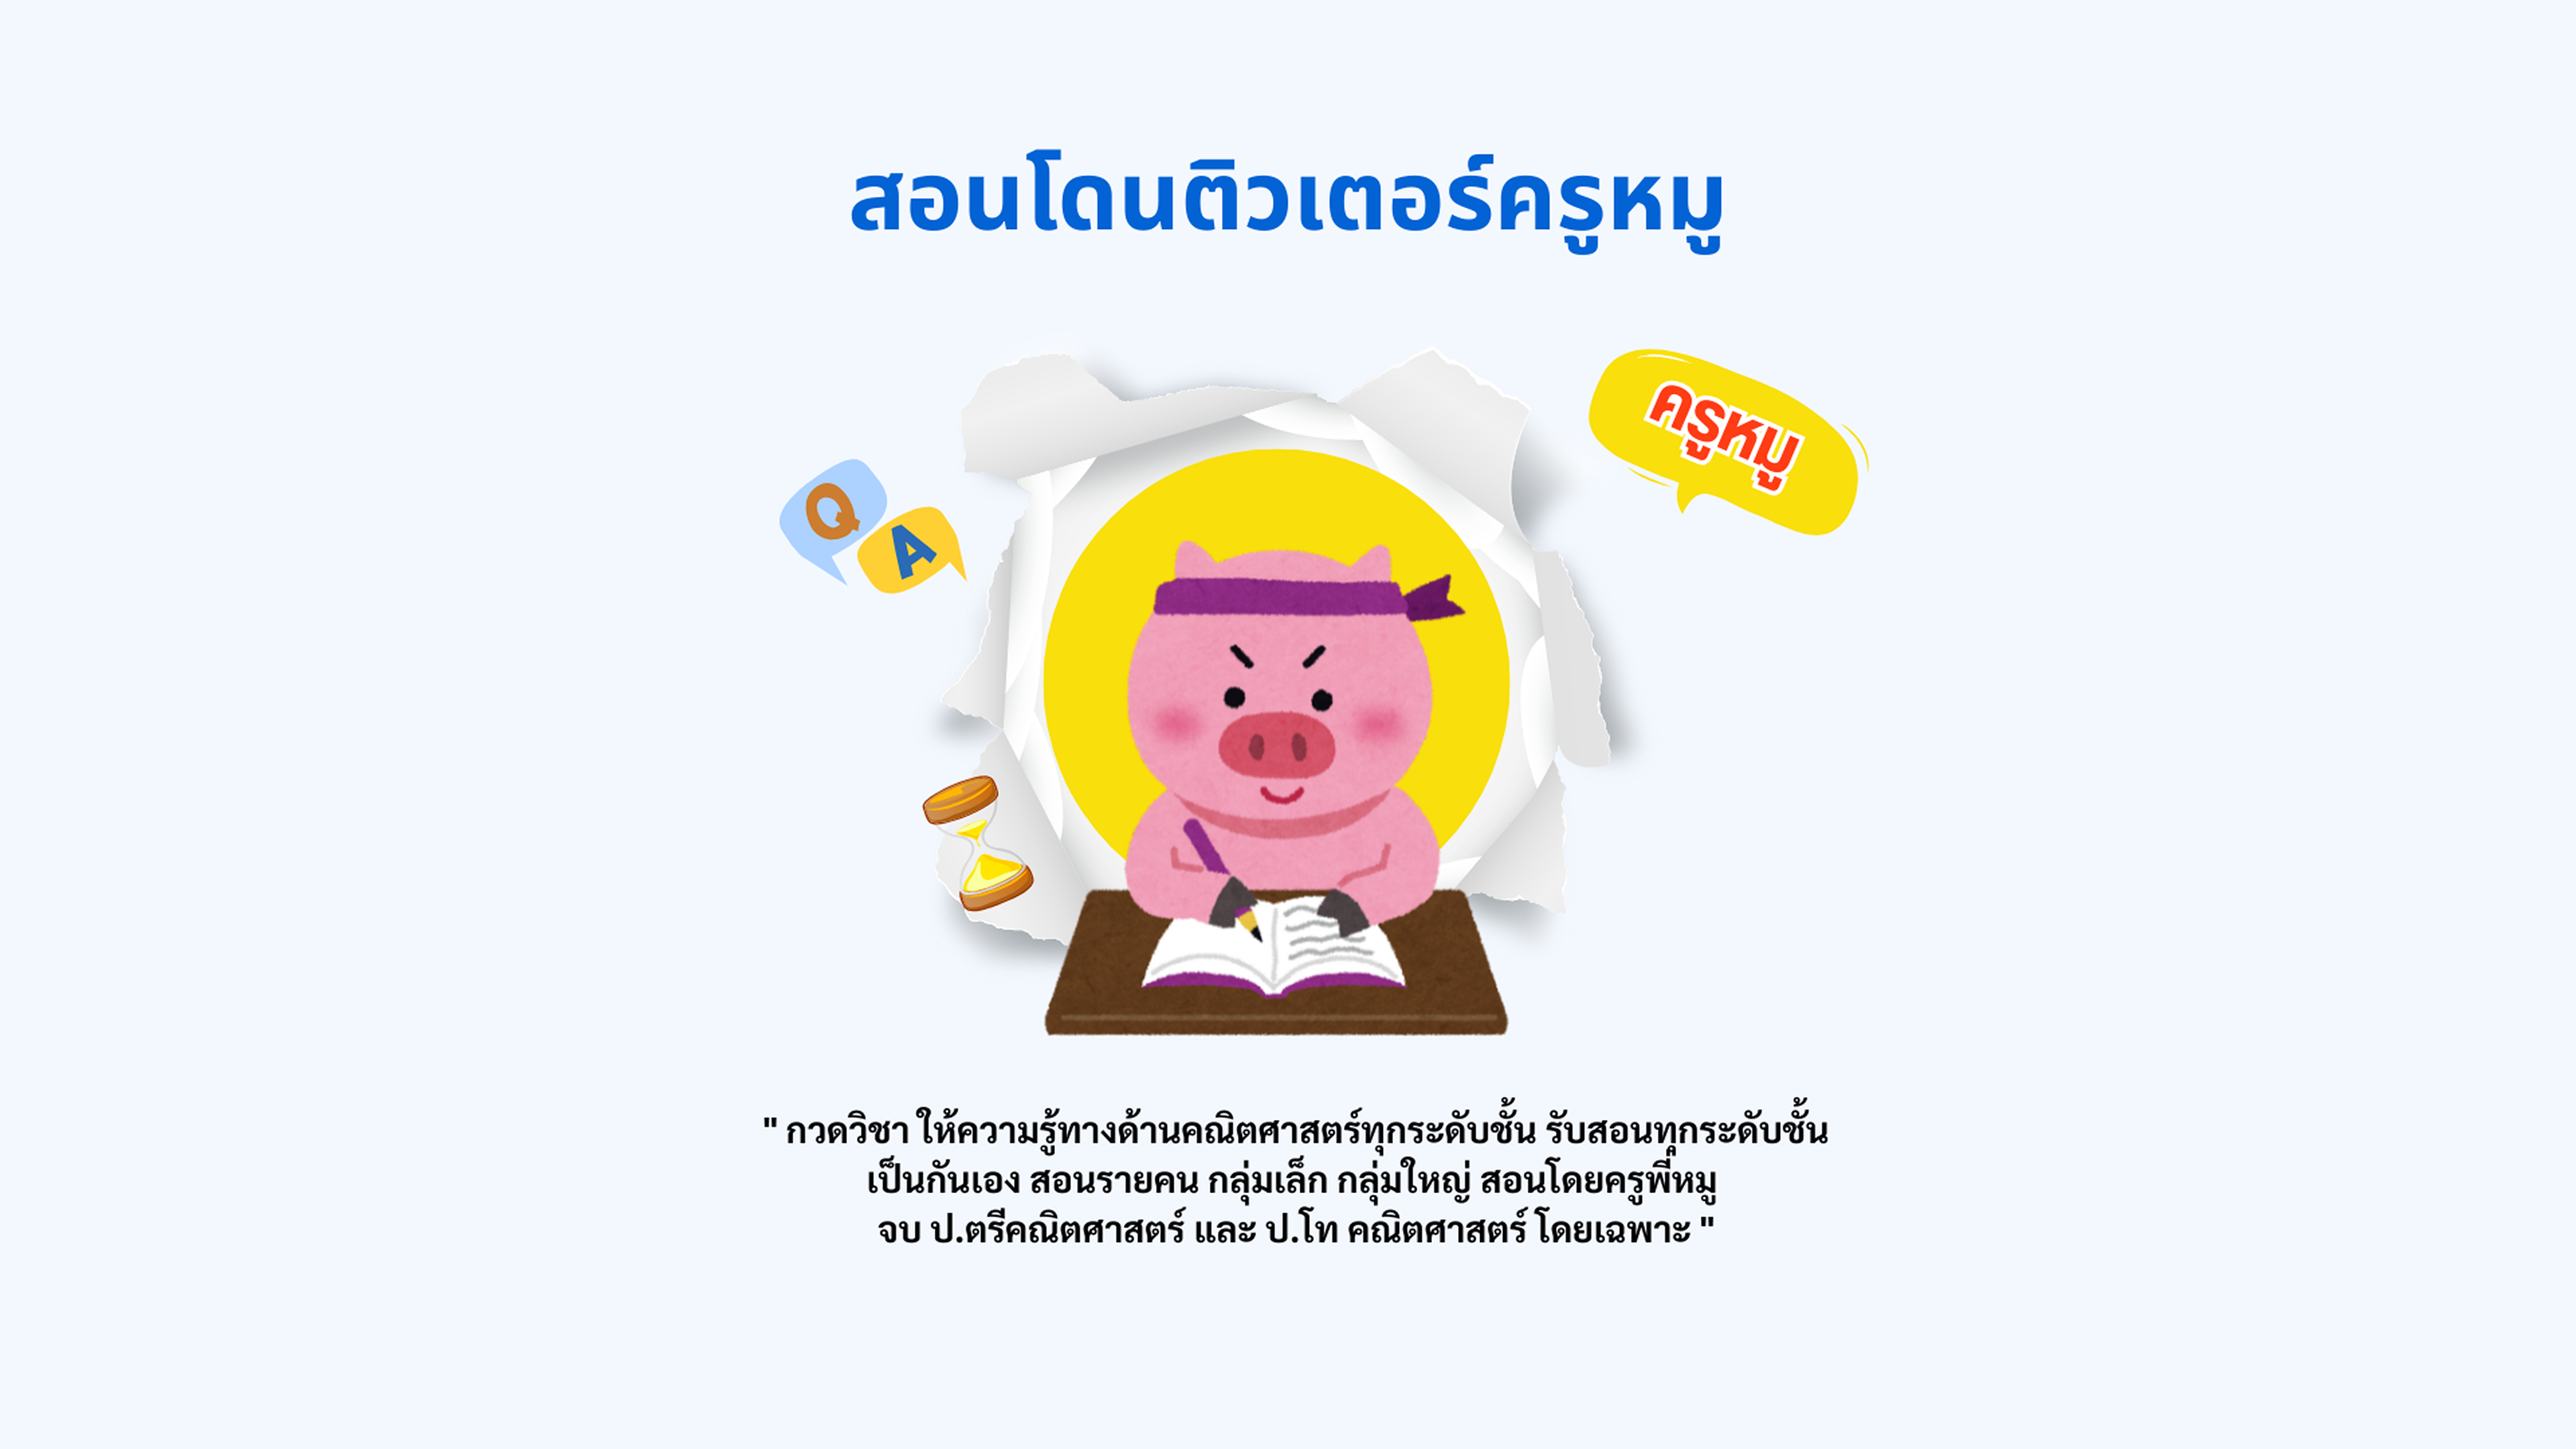
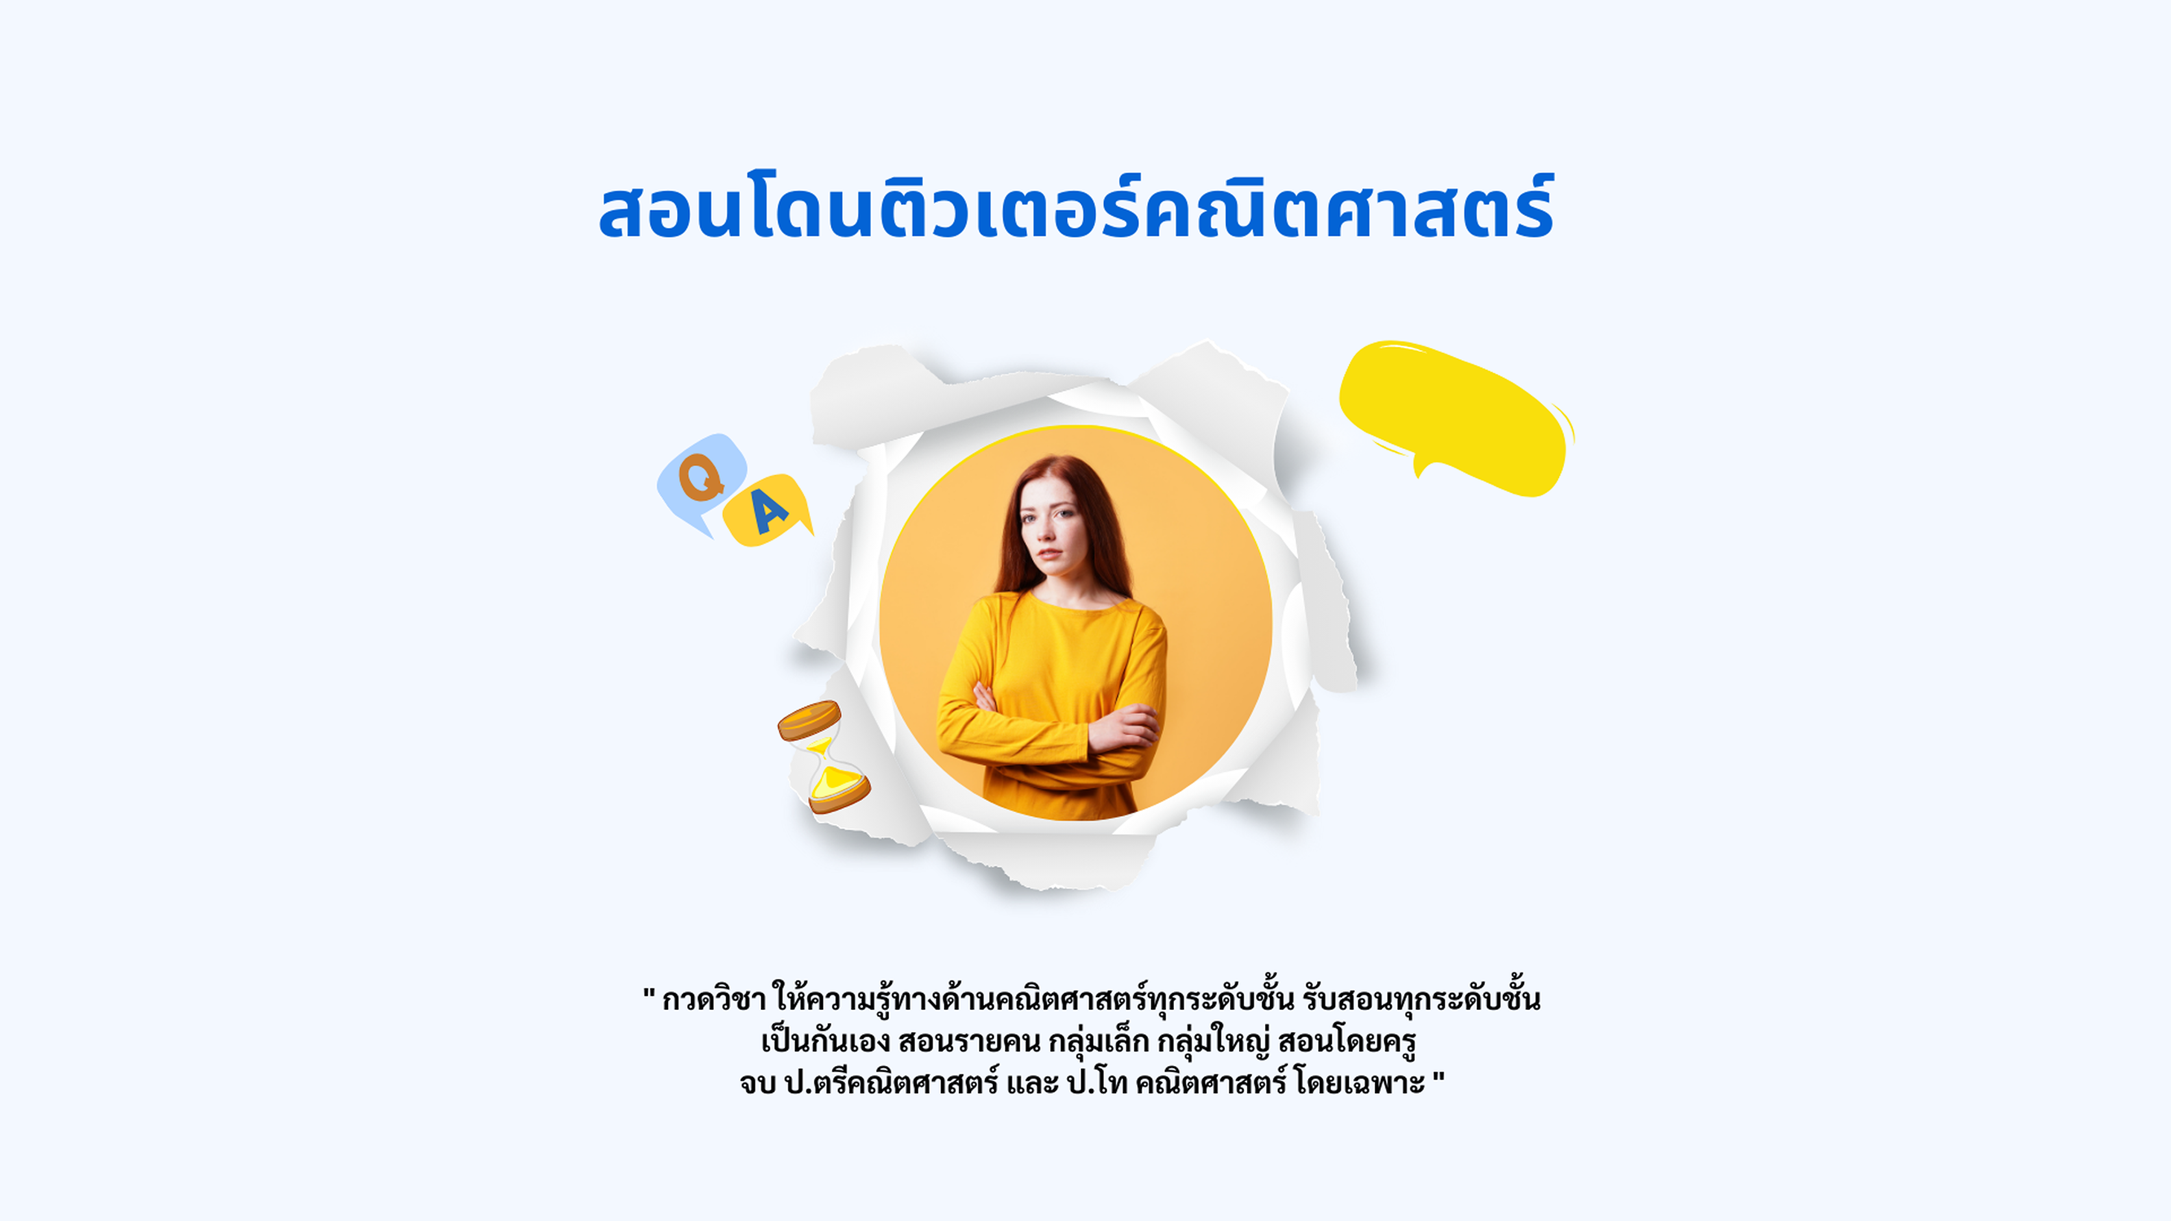
branding-changed

Changed region(s): [[0.2798, 0.0925, 0.7462, 0.74], [0.3109, 0.7709, 0.7151, 0.8942]]

diff --git a/src/app/home/home.tsx b/src/app/home/home.tsx
@@ -47,8 +47,8 @@ type ArticleFromAPI = {
 };
 
 type AchievementFromAPI = {
-    id: number;
-    image: string; // URL ของรูปภาพ
+  id: number;
+  image: string; // URL ของรูปภาพ
 };
 const banners = [
   { id: 1, src: banner, alt: "คอร์สคณิตศาสตร์" },
@@ -59,33 +59,33 @@ const banners = [
 const socials = [
   {
     name: "Line",
-    label: "@pig class",
+    label: "@Math Management",
     icon: line,
-    link: "https://line.me/ti/p/~pigclass",
+    link: "https://line.me/ti/p/~mathmanagement",
   },
   {
     name: "Facebook",
-    label: "pig class",
+    label: "Math Management",
     icon: facebook,
-    link: "https://facebook.com/pigclass",
+    link: "https://facebook.com/mathmanagement",
   },
   {
     name: "Instagram",
-    label: "pig class",
+    label: "Math Management",
     icon: ig,
-    link: "https://instagram.com/pigclass",
+    link: "https://instagram.com/mathmanagement",
   },
   {
     name: "TikTok",
-    label: "pig class",
+    label: "Math Management",
     icon: tiktok,
-    link: "https://tiktok.com/@pigclass",
+    link: "https://tiktok.com/@mathmanagement",
   },
   {
     name: "YouTube",
-    label: "pig class",
+    label: "Math Management",
     icon: youtube,
-    link: "https://youtube.com/@pigclass",
+    link: "https://youtube.com/@mathmanagement",
   },
 ];
 
@@ -159,7 +159,7 @@ export default function Home() {
   const [errorArticles, setErrorArticles] = useState<string | null>(null);   // <<< เปลี่ยนชื่อ state
   const [allDbAchievements, setAllDbAchievements] = useState<AchievementFromAPI[]>([]);
   const [isLoadingAchievements, setIsLoadingAchievements] = useState(true); // <<< ปรับชื่อ State
-  const [errorAchievements, setErrorAchievements] = useState<string | null>(null); 
+  const [errorAchievements, setErrorAchievements] = useState<string | null>(null);
   const nextSlide = () => setCurrent((prev) => (prev + 1) % banners.length);
   const prevSlide = () =>
     setCurrent((prev) => (prev - 1 + banners.length) % banners.length);
@@ -234,7 +234,7 @@ export default function Home() {
     };
     fetchAllAchievements();
   }, []);
-    const articlesForDisplay = allDbArticles
+  const articlesForDisplay = allDbArticles
     .filter((article) => article.category?.name === activeTab)
     .slice(0, 4);
 
@@ -361,18 +361,18 @@ export default function Home() {
             ) : (
               <p className="text-center text-gray-500 py-4">ยังไม่มีข้อมูลความสำเร็จในขณะนี้</p>
             )}
-             {allDbAchievements.length === 0 && !isLoadingAchievements && !errorAchievements && (
-                 <p className="text-center text-gray-500 py-4">
-                    ยังไม่มีข้อมูลความสำเร็จในระบบ
-                 </p>
+            {allDbAchievements.length === 0 && !isLoadingAchievements && !errorAchievements && (
+              <p className="text-center text-gray-500 py-4">
+                ยังไม่มีข้อมูลความสำเร็จในระบบ
+              </p>
             )}
             {/* อาจจะมีปุ่ม "ดูทั้งหมด" อีกอัน ถ้า achievementsToDisplay น้อยกว่า allDbAchievements.length */}
             {allDbAchievements.length > 8 && achievementsToDisplay.length === 8 && (
-                 <div className="text-center mt-8"> {/* เพิ่ม mt-8 หรือค่าที่เหมาะสม */}
-                    <Link href="/achievement" className={styles.viewAllBtn}>
-                        ดูความสำเร็จทั้งหมด
-                    </Link>
-                 </div>
+              <div className="text-center mt-8"> {/* เพิ่ม mt-8 หรือค่าที่เหมาะสม */}
+                <Link href="/achievement" className={styles.viewAllBtn}>
+                  ดูความสำเร็จทั้งหมด
+                </Link>
+              </div>
             )}
           </>
         )}
@@ -497,10 +497,10 @@ export default function Home() {
                 height={60}
                 className={styles.socialImage}
               />
-              <p className={styles.socialLabel}>{social.label}</p>
             </a>
           ))}
         </div>
+        <p className={styles.socialLabel}>Math Management</p>
       </section>
     </main>
   );

diff --git a/src/app/profile/page.tsx b/src/app/profile/page.tsx
@@ -512,7 +512,6 @@ export default function ProfilePage() {
             { key: "courses", icon: CourseIcon, label: "คอร์สของฉัน" },
             { key: "info", icon: InfoIcon, label: "ข้อมูลส่วนตัว" },
             { key: "orders", icon: PaymentIcon, label: "ประวัติการสั่งซื้อ" },
-            { key: "points", icon: PigIcon, label: "แต้มการสะสม" },
             ...(session?.user?.role === "admin" // ตรวจสอบ role ให้ตรงกับค่าใน DB เช่น "ADMIN" หรือ "admin"
               ? [
                   {

diff --git a/src/app/components/Footer.tsx b/src/app/components/Footer.tsx
@@ -97,7 +97,7 @@ const Footer: React.FC = () => {
             <Image src={Line} alt="Line" className="social-icon" />
           </a>
         </div>
-        <p className="auth-icons">Pig class</p>
+        <p className="auth-icons">Math Management</p>
       </div>
     </footer>
   );
